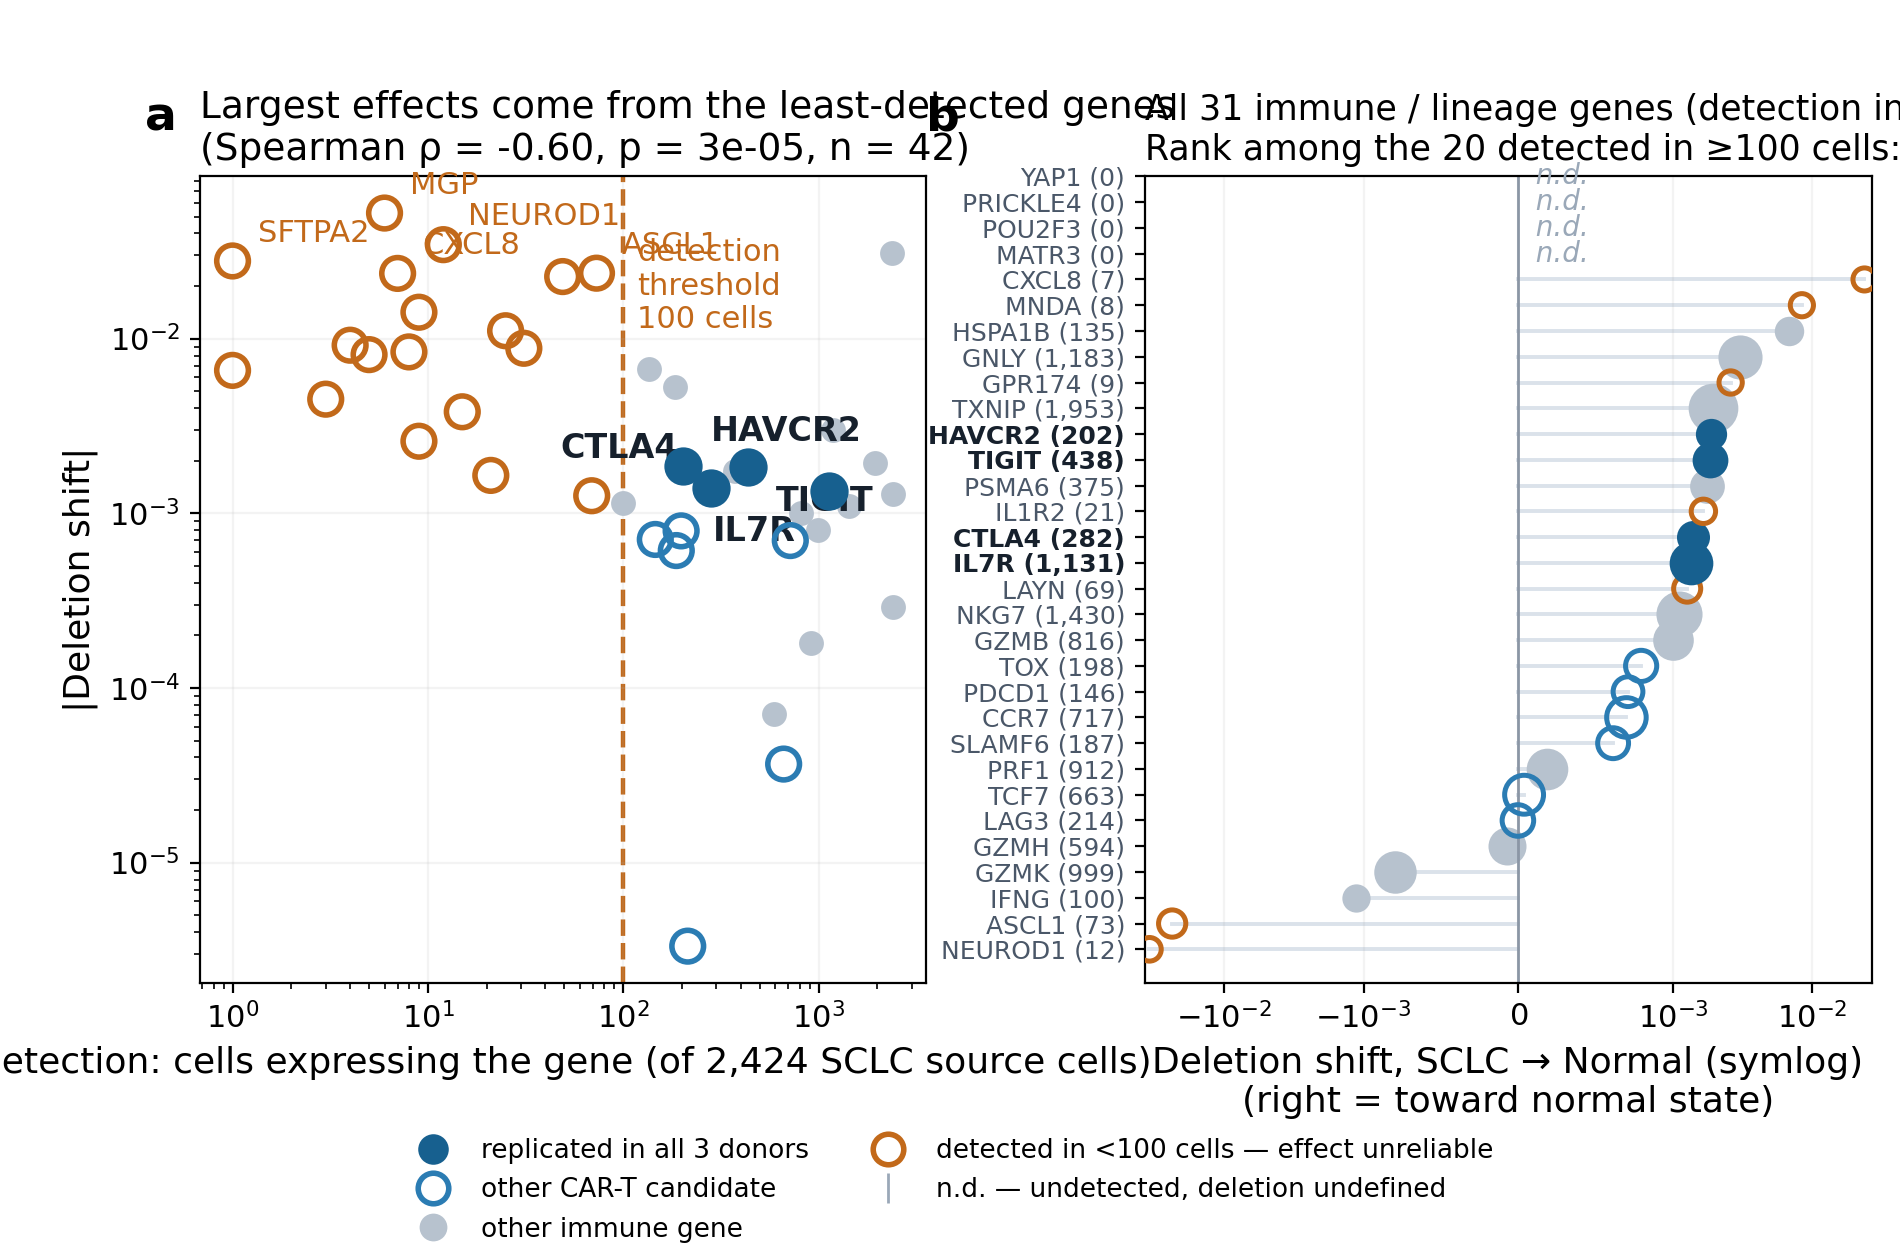
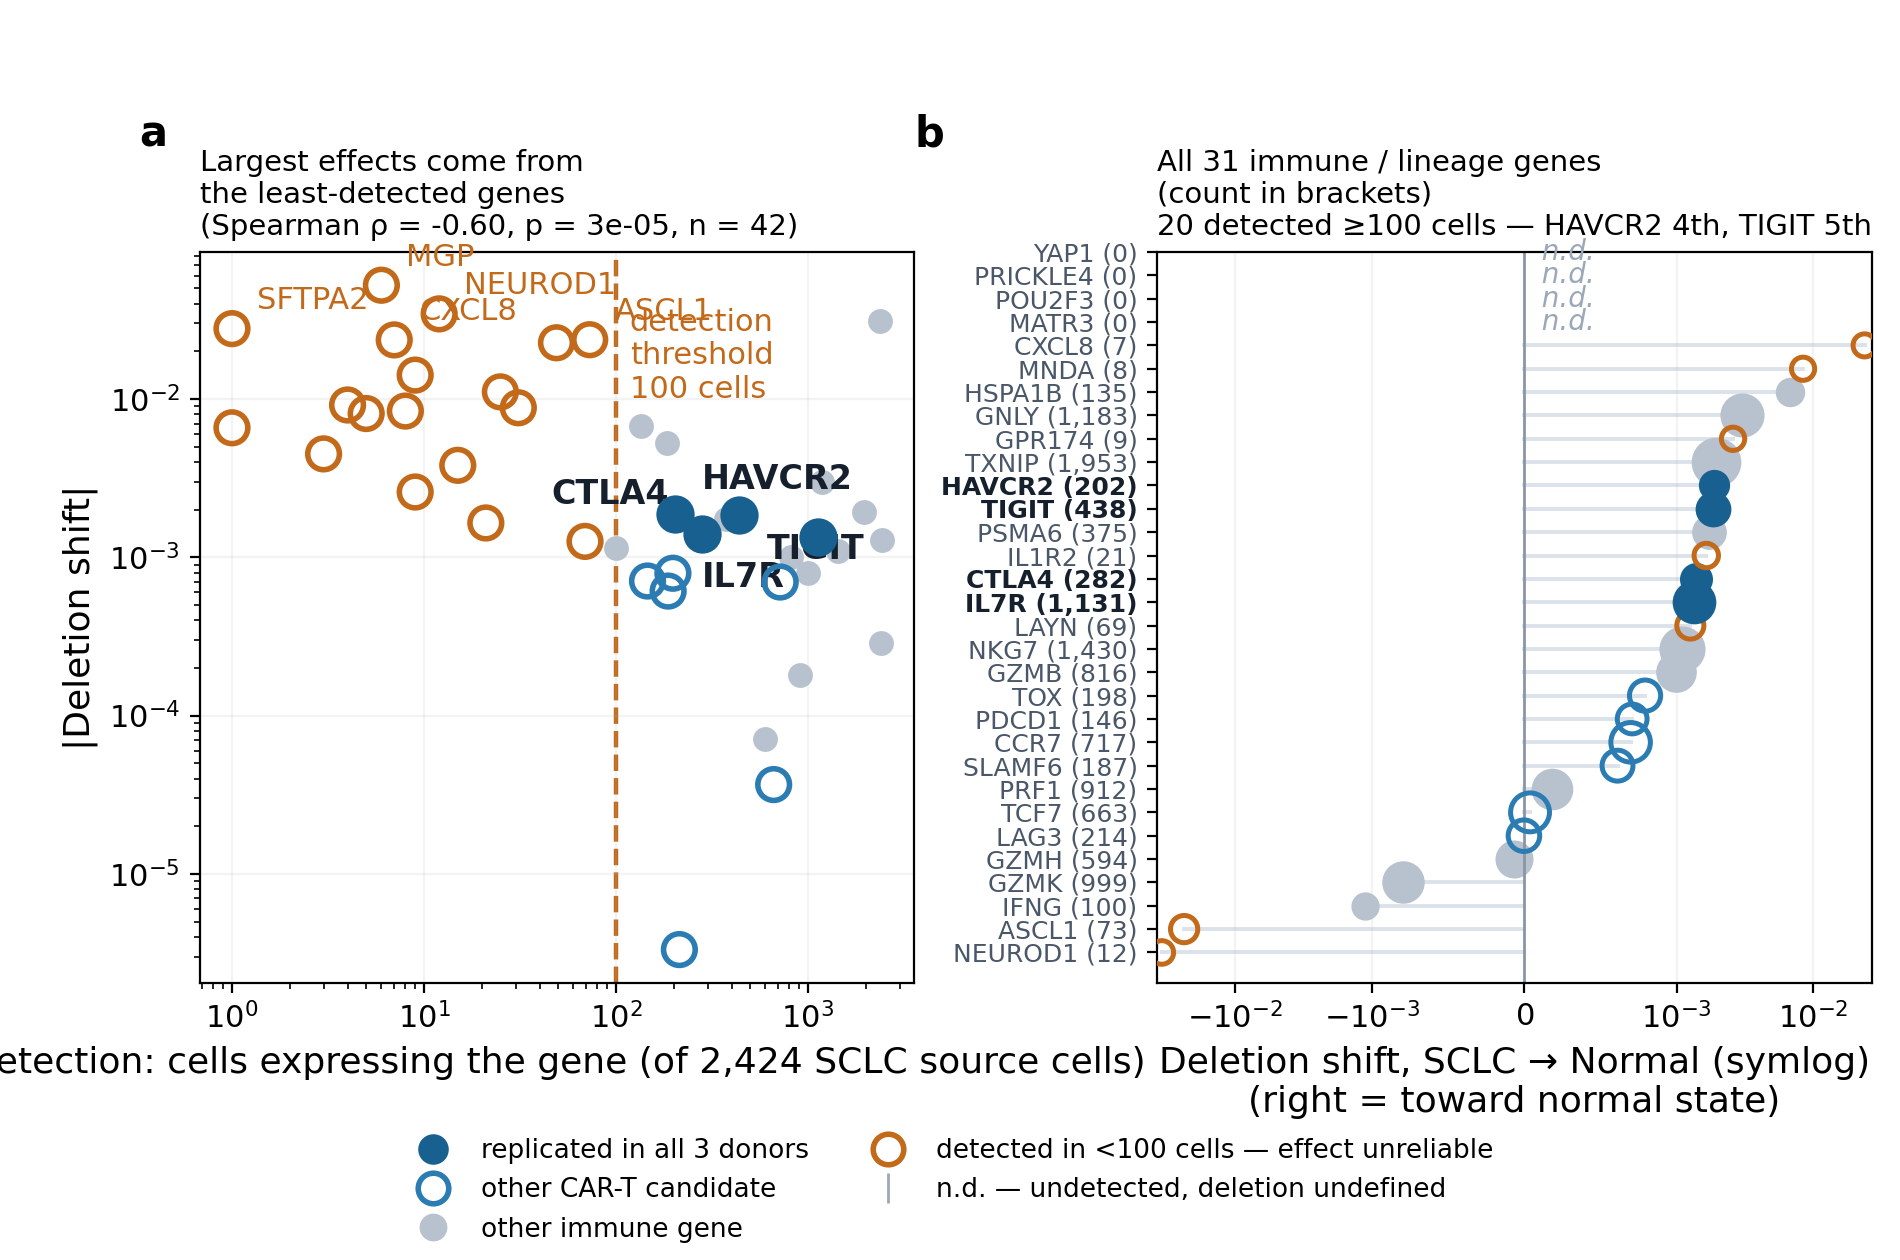
Rebuild the talk deck from the poster's figures and let snapshots restore it (#10)
* Rebuild the talk deck from the poster's figures and let snapshots restore it

The deck's assets were hand-made crops of poster figures with no generator, so
the deck silently kept showing superseded figures after the poster was rebuilt.
The deck and the board are meant to read as one project and there was nothing
keeping them in step.

talk/make_assets.py rebuilds all six. Whole poster figures are copied and
downscaled; the two that are single panels of multi-panel figures are
re-rendered from the poster generator's own panel functions rather than
pixel-cropped out of the composite, because a crop breaks silently whenever the
source layout shifts. The QR is regenerated against the same URL the poster
encodes.

build_deck.js no longer carries a hard-coded height multiplier per image. It
reads each PNG's IHDR and derives the aspect from the file, so a regenerated
asset changes size on a slide but is never stretched. That was not theoretical:
the detection figure went from aspect 1.99 to 1.51 when it was re-plotted for
the poster, and at fixed width it ran straight over the bullets beneath it.
Slides with a reserved height now use fitBox rather than fitW.

Regenerating also exposed clipped titles in the detection figure. Narrowing its
canvas to 9.5 in for legibility - matplotlib text does not scale with the
canvas - left both panel titles wider than their axes, and matplotlib neither
wraps nor clips a title, it just runs it off the edge. Both are wrapped now,
[…]

Changed region(s): [[0.0, 0.0619, 1.0, 0.8976], [0.0311, 0.3714, 0.0932, 0.5881], [0.0621, 0.681, 0.0932, 0.7119]]

diff --git a/sclc_validation/checkpoint_cart_perturbation/scripts/make_detection_figure.py b/sclc_validation/checkpoint_cart_perturbation/scripts/make_detection_figure.py
@@ -122,12 +122,12 @@ def _panel_scatter(ax, panel: pd.DataFrame, replicated: list[str]) -> None:
     ax.set_xlabel(f"Detection: cells expressing the gene "
                   f"(of {int(panel.source_cells.iloc[0]):,} SCLC source cells)", fontsize=13)
     ax.set_ylabel("|Deletion shift|", fontsize=13)
-    ax.set_title("Largest effects come from the least-detected genes\n"
+    ax.set_title("Largest effects come from\nthe least-detected genes\n"
                  f"(Spearman ρ = {rho:.2f}, p = {pval:.0e}, n = {len(testable)})",
-                 fontsize=13.5, loc="left")
+                 fontsize=10.5, loc="left")
     ax.tick_params(labelsize=11)
     ax.grid(alpha=0.15)
-    ax.text(-0.075, 1.10, "a", transform=ax.transAxes, fontsize=17,
+    ax.text(-0.085, 1.19, "a", transform=ax.transAxes, fontsize=15,
             fontweight="bold", va="top")
 
 
@@ -179,19 +179,22 @@ def _panel_rank(ax, panel: pd.DataFrame, replicated: list[str]) -> None:
                   fontsize=13)
     top = ", ".join(f"{g} {rank[g]}{'st' if rank[g]==1 else 'nd' if rank[g]==2 else 'rd' if rank[g]==3 else 'th'}"
                     for g in replicated[:2])
-    ax.set_title(f"All {len(immune)} immune / lineage genes (detection in brackets)\n"
-                 f"Rank among the {len(detected)} detected in ≥{LOW_DETECTION} cells: {top}",
-                 fontsize=12.5, loc="left")
+    # Keep each line under ~48 characters: the axes is about 4.3 in wide here
+    # and matplotlib does not wrap or clip a title, it just runs off the canvas.
+    ax.set_title(f"All {len(immune)} immune / lineage genes\n"
+                 f"(count in brackets)\n"
+                 f"{len(detected)} detected ≥{LOW_DETECTION} cells — {top}",
+                 fontsize=10.5, loc="left")
     ax.tick_params(axis="x", labelsize=11)
     ax.grid(axis="x", alpha=0.15)
-    ax.text(-0.30, 1.10, "b", transform=ax.transAxes, fontsize=17,
+    ax.text(-0.34, 1.19, "b", transform=ax.transAxes, fontsize=15,
             fontweight="bold", va="top")
 
 
 def main() -> Path:
     panel, replicated = _load()
     fig, axes = plt.subplots(1, 2, figsize=FIGSIZE,
-                             gridspec_kw={"width_ratios": [1.0, 1.0], "wspace": 0.30})
+                             gridspec_kw={"width_ratios": [1.0, 1.0], "wspace": 0.34})
     _panel_scatter(axes[0], panel, replicated)
     _panel_rank(axes[1], panel, replicated)
 
@@ -213,7 +216,7 @@ def main() -> Path:
     fig.legend(handles=handles, loc="lower center", ncol=2, frameon=False,
                fontsize=9.5, bbox_to_anchor=(0.5, -0.005))
 
-    fig.subplots_adjust(left=0.105, right=0.985, top=0.86, bottom=0.22)
+    fig.subplots_adjust(left=0.105, right=0.985, top=0.80, bottom=0.22)
     out = FIGURES / "cart_overexpression.png"
     fig.savefig(out, dpi=200)
     plt.close(fig)

diff --git a/sclc_validation/checkpoint_cart_perturbation/scripts/make_ici_cart_figure.py b/sclc_validation/checkpoint_cart_perturbation/scripts/make_ici_cart_figure.py
@@ -70,6 +70,20 @@ DRUG_NAME = {"CTLA4": "CTLA-4", "PDCD1": "PD-1", "LAG3": "LAG-3",
 FIGSIZE = (16, 5.6)
 
 
+def _panel_letter(ax, letter: str, dx: float) -> None:
+    """Put the panel letter above the title block, not beside it.
+
+    Placing it at a fixed axes fraction puts it at the same height as the
+    title, and these titles are left-aligned and three lines deep - the "c"
+    landed on top of "bold = panel b candidate". Offsetting in POINTS from the
+    axes' top-left corner clears the title whatever the axes' pixel height,
+    which an axes fraction does not. dx moves it left past the tick labels.
+    """
+    ax.annotate(letter, xy=(0, 1), xycoords="axes fraction",
+                xytext=(dx, 46), textcoords="offset points",
+                fontsize=16, fontweight="bold", va="bottom", ha="left")
+
+
 def _replicated(cart: pd.DataFrame) -> list[str]:
     goal = cart[cart.comparison == GOAL]
     hits = goal[goal.concordant & goal.tier.eq("all donors agree")
@@ -108,8 +122,7 @@ def _panel_ici(ax, ici: pd.DataFrame) -> pd.DataFrame:
     ax.tick_params(axis="x", labelsize=10)
     ax.xaxis.set_major_locator(plt.MaxNLocator(5))
     ax.grid(axis="x", alpha=0.15)
-    ax.text(-0.28, 1.14, "a", transform=ax.transAxes, fontsize=16,
-            fontweight="bold", va="top")
+    _panel_letter(ax, "a", -46)
     return ici
 
 
@@ -143,8 +156,7 @@ def _panel_rank(ax, cart: pd.DataFrame, replicated: list[str]) -> None:
                  fontsize=11, loc="left")
     ax.tick_params(axis="x", labelsize=10)
     ax.grid(axis="x", alpha=0.15)
-    ax.text(-0.24, 1.14, "b", transform=ax.transAxes, fontsize=16,
-            fontweight="bold", va="top")
+    _panel_letter(ax, "b", -44)
 
 
 def _panel_network(ax, nodes: pd.DataFrame, edges: pd.DataFrame,
@@ -204,8 +216,7 @@ def _panel_network(ax, nodes: pd.DataFrame, edges: pd.DataFrame,
     ax.set_title(f"All {len(candidates)} candidates on the STRING map;\n"
                  "bold = panel b candidate,\ncolour = its SCLC→Normal shift",
                  fontsize=11, loc="left")
-    ax.text(0.0, 1.14, "c", transform=ax.transAxes, fontsize=16,
-            fontweight="bold", va="top")
+    _panel_letter(ax, "c", -8)
 
     bar = ax.inset_axes([0.30, 0.02, 0.46, 0.035])
     colorbar = plt.colorbar(plt.cm.ScalarMappable(norm=norm, cmap=cmap),
@@ -248,7 +259,7 @@ def main() -> Path:
                fontsize=10.5, bbox_to_anchor=(0.035, -0.01),
                title="Donor replication", title_fontsize=10.5)
 
-    fig.subplots_adjust(left=0.075, right=0.995, top=0.78, bottom=0.30)
+    fig.subplots_adjust(left=0.075, right=0.995, top=0.74, bottom=0.30)
     out = FIGURES / "ici_cart_perturbation_network.png"
     fig.savefig(out, dpi=200)
     plt.close(fig)

diff --git a/tools/make_snapshots.py b/tools/make_snapshots.py
@@ -21,6 +21,8 @@ from __future__ import annotations
 
 import argparse
 import io
+import shutil
+import subprocess
 import sys
 from pathlib import Path
 
@@ -89,11 +91,52 @@ def discover() -> list[Path]:
     return sorted(set(found))
 
 
+DECK_PPTX = REPO / "talk" / "JSDP_P25_talk.pptx"
+DECK_BUILDER = REPO / "talk" / "build_deck.js"
+
+
+def ensure_deck(check_only: bool) -> None:
+    """Rebuild the talk deck if it is missing.
+
+    talk/JSDP_P25_talk.pptx is git-ignored - it is 3.7 MB of regenerable build
+    output - so a fresh clone does not have one. `node talk/build_deck.js`
+    rebuilds it from talk/assets/, and this runs that rather than leaving the
+    deck to be reconstructed by hand.
+
+    Only when it is MISSING. This does not try to detect staleness: the deck's
+    real inputs are the assets, which talk/make_assets.py rebuilds from the
+    poster's figures, and rebuilding a present deck on every snapshot run would
+    rewrite a multi-megabyte binary for no reason. To refresh the deck after
+    the poster's figures change, run make_assets.py then build_deck.js.
+    """
+    if DECK_PPTX.exists() or not DECK_BUILDER.exists():
+        return
+    if check_only:
+        print(f"  MISSING     {DECK_PPTX.relative_to(REPO)} "
+              f"(run: node {DECK_BUILDER.relative_to(REPO)})")
+        return
+    if shutil.which("node") is None:
+        print(f"  SKIPPED     {DECK_PPTX.relative_to(REPO)} - node not on PATH; "
+              f"run `node {DECK_BUILDER.relative_to(REPO)}` where it is")
+        return
+    print(f"  building    {DECK_PPTX.relative_to(REPO)} from build_deck.js")
+    result = subprocess.run(["node", str(DECK_BUILDER)], cwd=str(DECK_BUILDER.parent),
+                            capture_output=True, text=True)
+    if result.returncode != 0:
+        # Not fatal: the snapshots of everything else are still worth writing.
+        tail = (result.stderr or result.stdout).strip().splitlines()[-3:]
+        print(f"  FAILED      build_deck.js exited {result.returncode}")
+        for line in tail:
+            print(f"                {line}")
+
+
 def main() -> int:
     ap = argparse.ArgumentParser(description=__doc__)
     ap.add_argument("--check", action="store_true",
                     help="report missing or stale snapshots, write nothing")
     args = ap.parse_args()
+
+    ensure_deck(args.check)
 
     sources = discover()
     if not sources:
